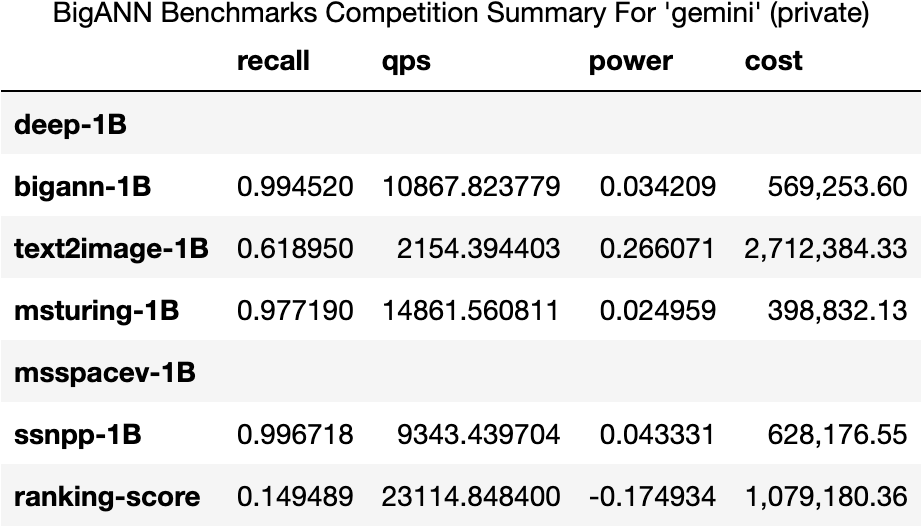
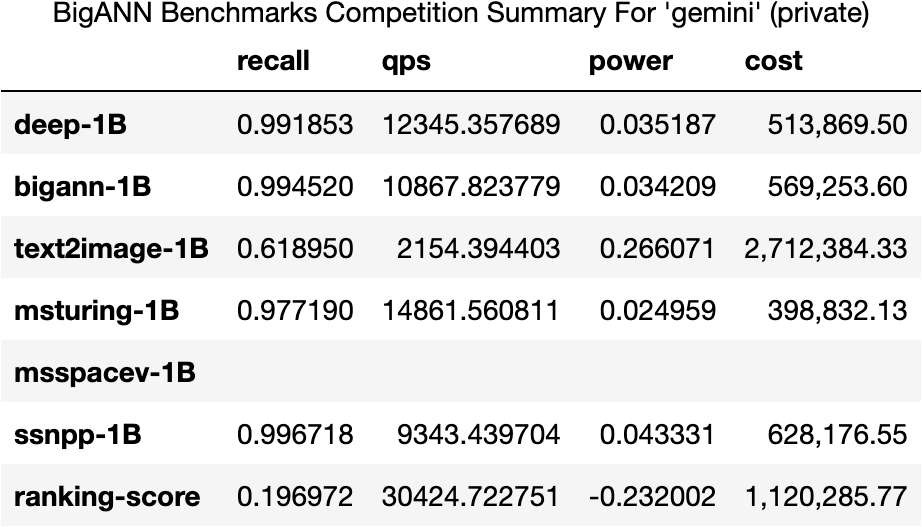
last gemini all runs

diff --git a/t3/run_eval.py b/t3/run_eval.py
@@ -82,8 +82,10 @@ SUBM_MAPPING            = \
         # last "export_fname": "public_gsl_release_merged_latest_ssnpp_text2image.csv",
         #"results_dir":  ( "%s/gsi/results_final_run" % CACHE_RESULTS_TOPLEVEL ) if PUBLIC else \
         #    ( "%s/gsi/results_gsi_priv_4_dsets" % CACHE_RESULTS_TOPLEVEL ),
+        # "results_dir":  ( "%s/gsi/results_final_run" % CACHE_RESULTS_TOPLEVEL ) if PUBLIC else \
+        #    ( "%s/gsi/results_gem_priv_4_dsets_w_power/" % CACHE_RESULTS_TOPLEVEL ),
         "results_dir":  ( "%s/gsi/results_final_run" % CACHE_RESULTS_TOPLEVEL ) if PUBLIC else \
-            ( "%s/gsi/results_gem_priv_4_dsets_w_power/" % CACHE_RESULTS_TOPLEVEL ),
+            ( "%s/gsi/results_gem_priv_merge__gem_priv_4_dsets_w_power__results_gem_priv_last_2_dsets/" % CACHE_RESULTS_TOPLEVEL ),
         "export_fname": "public_w_cache_detect.csv" if PUBLIC else "private_w_cache_detect.csv",
         "cache_detect": True,
         "anomaly_explain": False,
@@ -666,7 +668,7 @@ if __name__ == "__main__":
     else: #PRIVATE
         subms = [  "faiss_t3", "optanne_graphann", "gemini", "diskann", "cuanns_multigpu", "cuanns_ivfpq" ]
         #subms = [ "gemini", "faiss_t3", "cuanns_ivfpq", "optanne_graphann" ]
-        #subms = [ "gemini" ]
+        # subms = [ "gemini" ]
         #subms = [ "cuanns_multigpu" ]
 
     # export and/or produce summary and evals json  

diff --git a/t3/LEADERBOARDS_PRIVATE.md b/t3/LEADERBOARDS_PRIVATE.md
@@ -10,9 +10,9 @@ Please note that all rankings and winners are unofficial until all [open tasks a
 |--------------------|-----------|----------|---------|---------|---------|--------|---------|---------|---------|---------|--------|
 |[diskann](https://github.com/harsha-simhadri/big-ann-benchmarks/blob/gw/T3/t3/diskann-bare-metal/README.md)  |Microsoft Research India(*org*)    |Dell PowerEdge   |*NQ*  |*NQ*  |*NQ*  |*NQ* |eval   |*NA*  |[Harsha Simhadri](https://github.com/harsha-simhadri)  |[src](https://github.com/harsha-simhadri/big-ann-benchmarks/blob/gw/T3/benchmark/algorithms/diskann-t2.py)  |NA |
 |[faiss_t3](https://github.com/harsha-simhadri/big-ann-benchmarks/blob/gw/T3/t3/faiss_t3/README.md)    |Facebook Research(*org*)     |NVidia GPU    |[5](#recall-or-ap-rankings)   |[5](#throughput-rankings)   |[5](#power-rankings)   |[4](#cost-rankings)  |eval    |0/49   |[George Williams](https://github.com/sourcesync)   |[src](https://github.com/harsha-simhadri/big-ann-benchmarks/blob/gw/T3/benchmark/algorithms/faiss_t3.py)   |[nb](https://github.com/harsha-simhadri/big-ann-benchmarks/blob/gw/T3/t3/eval_2021/faiss_t3/EvalPrivate.ipynb)  |
-|[gemini](https://github.com/harsha-simhadri/big-ann-benchmarks/blob/gw/T3/t3/gemini/README.md)  |GSI Technology(*org*)    |LedaE APU   |[3](#recall-or-ap-rankings)  |[4](#throughput-rankings)  |[3](#power-rankings)  |[5](#cost-rankings) |eval   |0/40  |[George Williams](https://github.com/sourcesync)  |[src](https://github.com/harsha-simhadri/big-ann-benchmarks/blob/gw/T3/benchmark/algorithms/gemini.py)  |[nb](https://github.com/harsha-simhadri/big-ann-benchmarks/blob/gw/T3/t3/eval_2021/gemini/EvalPrivate.ipynb) |
+|[gemini](https://github.com/harsha-simhadri/big-ann-benchmarks/blob/gw/T3/t3/gemini/README.md)  |GSI Technology(*org*)    |LedaE APU   |[2](#recall-or-ap-rankings)  |[4](#throughput-rankings)  |[3](#power-rankings)  |[5](#cost-rankings) |eval   |0/50  |[George Williams](https://github.com/sourcesync)  |[src](https://github.com/harsha-simhadri/big-ann-benchmarks/blob/gw/T3/benchmark/algorithms/gemini.py)  |[nb](https://github.com/harsha-simhadri/big-ann-benchmarks/blob/gw/T3/t3/eval_2021/gemini/EvalPrivate.ipynb) |
 |[cuanns_ivfpq](https://github.com/harsha-simhadri/big-ann-benchmarks/blob/gw/T3/t3/cuanns_ivfpq/README.md)  |NVidia    |NVidia GPU   |[1](#recall-or-ap-rankings)  |[3](#throughput-rankings)  |[1](#power-rankings)  |[2](#cost-rankings)\*\* |eval   |[5/40](https://github.com/harsha-simhadri/big-ann-benchmarks/blob/gw/T3/t3/cuanns_ivfpq/ANOMALIES.md)  |[George Williams](https://github.com/sourcesync)  |[src](https://github.com/harsha-simhadri/big-ann-benchmarks/blob/gw/T3/benchmark/algorithms/cuanns_ivfpq.py)  |[nb](https://github.com/harsha-simhadri/big-ann-benchmarks/blob/gw/T3/t3/eval_2021/cuanns_ivfpq/EvalPrivate.ipynb) |
-|[cuanns_multigpu](https://github.com/harsha-simhadri/big-ann-benchmarks/blob/gw/T3/t3/cuanns_multigpu/README.md)    |NVidia     |NVidia GPU    |[2](#recall-or-ap-rankings)   |[1](#throughput-rankings)   |[2](#power-rankings)   |[3](#cost-rankings)\*\*  |eval    |[3/30](https://github.com/harsha-simhadri/big-ann-benchmarks/blob/gw/T3/t3/cuanns_multigpu/ANOMALIES.md)   |[George Williams](https://github.com/sourcesync)   |[src](https://github.com/harsha-simhadri/big-ann-benchmarks/blob/gw/T3/benchmark/algorithms/cuanns_multigpu.py)   |NA  |
+|[cuanns_multigpu](https://github.com/harsha-simhadri/big-ann-benchmarks/blob/gw/T3/t3/cuanns_multigpu/README.md)    |NVidia     |NVidia GPU    |[3](#recall-or-ap-rankings)   |[1](#throughput-rankings)   |[2](#power-rankings)   |[3](#cost-rankings)\*\*  |eval    |[3/30](https://github.com/harsha-simhadri/big-ann-benchmarks/blob/gw/T3/t3/cuanns_multigpu/ANOMALIES.md)   |[George Williams](https://github.com/sourcesync)   |[src](https://github.com/harsha-simhadri/big-ann-benchmarks/blob/gw/T3/benchmark/algorithms/cuanns_multigpu.py)   |NA  |
 |[optanne_graphann](https://github.com/harsha-simhadri/big-ann-benchmarks/blob/gw/T3/t3/optanne_graphann/README.md)|Intel   |Intel Optane  |[4](#recall-or-ap-rankings) |[2](#throughput-rankings) |[4](#power-rankings) |[1](#cost-rankings)|eval  |[4/40](https://github.com/harsha-simhadri/big-ann-benchmarks/blob/gw/T3/t3/optanne_graphann/ANOMALIES.md) |[George Williams](https://github.com/sourcesync) |[src](https://github.com/harsha-simhadri/big-ann-benchmarks/blob/gw/T3/benchmark/algorithms/graphann.py) |[nb](https://github.com/harsha-simhadri/big-ann-benchmarks/blob/gw/T3/t3/eval_2021/optanne_graphann/EvalPrivate.ipynb)|
 
 * Abbreviations used in chart:
@@ -33,8 +33,8 @@ Please note that all rankings and winners are unofficial until all [open tasks a
 |Rank|Submission        |Team   |Hardware|Status |Score      |[Deep1B](#deep1B-recall-rankings)|[BigANN](#bigann-recall-rankings)|[MSTuring](#msturing-recall-rankings)|[MSSpace](#msspace-recall-rankings)|[Text2Image](#text2image-recall-rankings)|[FBSSNet](#fbsimsearchnet-ap-rankings)|
 |----|------------------|-------|--------|-------|-----------|------|------|--------|-------|----------|-------|
 |   1|[cuanns_ivfpq](https://github.com/harsha-simhadri/big-ann-benchmarks/blob/gw/T3/t3/cuanns_ivfpq/README.md)|NVidia|NVidia GPU |eval|**0.226**|[0.99544](https://github.com/harsha-simhadri/big-ann-benchmarks/blob/gw/T3/t3/eval_2021/cuanns_ivfpq/private_deep-1B_recall.png) |[0.99882](https://github.com/harsha-simhadri/big-ann-benchmarks/blob/gw/T3/t3/eval_2021/cuanns_ivfpq/private_bigann-1B_recall.png) |[0.99054](https://github.com/harsha-simhadri/big-ann-benchmarks/blob/gw/T3/t3/eval_2021/cuanns_ivfpq/private_msturing-1B_recall.png)   |-  |[0.63732](https://github.com/harsha-simhadri/big-ann-benchmarks/blob/gw/T3/t3/eval_2021/cuanns_ivfpq/private_text2image-1B_recall.png)     |-  |
-|   2|[cuanns_multigpu](https://github.com/harsha-simhadri/big-ann-benchmarks/blob/gw/T3/t3/cuanns_multigpu/README.md)|NVidia|NVidia GPU |eval|**0.182**|[0.99551](https://github.com/harsha-simhadri/big-ann-benchmarks/blob/gw/T3/t3/eval_2021/cuanns_multigpu/private_deep-1B_recall.png) |[0.99872](https://github.com/harsha-simhadri/big-ann-benchmarks/blob/gw/T3/t3/eval_2021/cuanns_multigpu/private_bigann-1B_recall.png) |[0.98330](https://github.com/harsha-simhadri/big-ann-benchmarks/blob/gw/T3/t3/eval_2021/cuanns_multigpu/private_msturing-1B_recall.png)   |-  |-     |-  |
-|   3|[gemini](https://github.com/harsha-simhadri/big-ann-benchmarks/blob/gw/T3/t3/gemini/README.md)|GSI Technology(*org*)|LedaE APU |eval|**0.149**|- |[0.99452](https://github.com/harsha-simhadri/big-ann-benchmarks/blob/gw/T3/t3/eval_2021/gemini/private_bigann-1B_recall.png) |[0.97719](https://github.com/harsha-simhadri/big-ann-benchmarks/blob/gw/T3/t3/eval_2021/gemini/private_msturing-1B_recall.png)   |-  |[0.61895](https://github.com/harsha-simhadri/big-ann-benchmarks/blob/gw/T3/t3/eval_2021/gemini/private_text2image-1B_recall.png)     |[0.99672](https://github.com/harsha-simhadri/big-ann-benchmarks/blob/gw/T3/t3/eval_2021/gemini/private_ssnpp-1B_recall.png)  |
+|   2|[gemini](https://github.com/harsha-simhadri/big-ann-benchmarks/blob/gw/T3/t3/gemini/README.md)|GSI Technology(*org*)|LedaE APU |eval|**0.197**|[0.99185](https://github.com/harsha-simhadri/big-ann-benchmarks/blob/gw/T3/t3/eval_2021/gemini/private_deep-1B_recall.png) |[0.99452](https://github.com/harsha-simhadri/big-ann-benchmarks/blob/gw/T3/t3/eval_2021/gemini/private_bigann-1B_recall.png) |[0.97719](https://github.com/harsha-simhadri/big-ann-benchmarks/blob/gw/T3/t3/eval_2021/gemini/private_msturing-1B_recall.png)   |-  |[0.61895](https://github.com/harsha-simhadri/big-ann-benchmarks/blob/gw/T3/t3/eval_2021/gemini/private_text2image-1B_recall.png)     |[0.99672](https://github.com/harsha-simhadri/big-ann-benchmarks/blob/gw/T3/t3/eval_2021/gemini/private_ssnpp-1B_recall.png)  |
+|   3|[cuanns_multigpu](https://github.com/harsha-simhadri/big-ann-benchmarks/blob/gw/T3/t3/cuanns_multigpu/README.md)|NVidia|NVidia GPU |eval|**0.182**|[0.99551](https://github.com/harsha-simhadri/big-ann-benchmarks/blob/gw/T3/t3/eval_2021/cuanns_multigpu/private_deep-1B_recall.png) |[0.99872](https://github.com/harsha-simhadri/big-ann-benchmarks/blob/gw/T3/t3/eval_2021/cuanns_multigpu/private_bigann-1B_recall.png) |[0.98330](https://github.com/harsha-simhadri/big-ann-benchmarks/blob/gw/T3/t3/eval_2021/cuanns_multigpu/private_msturing-1B_recall.png)   |-  |-     |-  |
 |   4|[optanne_graphann](https://github.com/harsha-simhadri/big-ann-benchmarks/blob/gw/T3/t3/optanne_graphann/README.md)|Intel|Intel Optane |eval|**0.089**|[0.99872](https://github.com/harsha-simhadri/big-ann-benchmarks/blob/gw/T3/t3/eval_2021/optanne_graphann/private_deep-1B_recall.png) |[0.99977](https://github.com/harsha-simhadri/big-ann-benchmarks/blob/gw/T3/t3/eval_2021/optanne_graphann/private_bigann-1B_recall.png) |[0.90255](https://github.com/harsha-simhadri/big-ann-benchmarks/blob/gw/T3/t3/eval_2021/optanne_graphann/private_msturing-1B_recall.png)   |-  |[0.58449](https://github.com/harsha-simhadri/big-ann-benchmarks/blob/gw/T3/t3/eval_2021/optanne_graphann/private_text2image-1B_recall.png)     |-  |
 |   5|[faiss_t3](https://github.com/harsha-simhadri/big-ann-benchmarks/blob/gw/T3/t3/faiss_t3/README.md)|Facebook Research(*org*)|NVidia GPU |eval|**baseline**|[0.94437](https://github.com/harsha-simhadri/big-ann-benchmarks/blob/gw/T3/t3/eval_2021/faiss_t3/private_deep-1B_recall.png) |[0.93604](https://github.com/harsha-simhadri/big-ann-benchmarks/blob/gw/T3/t3/eval_2021/faiss_t3/private_bigann-1B_recall.png) |[0.91513](https://github.com/harsha-simhadri/big-ann-benchmarks/blob/gw/T3/t3/eval_2021/faiss_t3/private_msturing-1B_recall.png)   |-  |[0.60105](https://github.com/harsha-simhadri/big-ann-benchmarks/blob/gw/T3/t3/eval_2021/faiss_t3/private_text2image-1B_recall.png)     |[0.98567](https://github.com/harsha-simhadri/big-ann-benchmarks/blob/gw/T3/t3/eval_2021/faiss_t3/private_ssnpp-1B_recall.png)  |
 |   6|[-](-)|-|- |-|**-**|- |- |-   |-  |-     |-  |
@@ -53,7 +53,7 @@ Please note that all rankings and winners are unofficial until all [open tasks a
 |   1|[cuanns_multigpu](https://github.com/harsha-simhadri/big-ann-benchmarks/blob/gw/T3/t3/cuanns_multigpu/README.md)|NVidia|NVidia GPU |eval|**2093459**|[934,837](https://github.com/harsha-simhadri/big-ann-benchmarks/blob/gw/T3/t3/eval_2021/cuanns_multigpu/private_deep-1B_throughput.png) |[776,723](https://github.com/harsha-simhadri/big-ann-benchmarks/blob/gw/T3/t3/eval_2021/cuanns_multigpu/private_bigann-1B_throughput.png) |[392,843](https://github.com/harsha-simhadri/big-ann-benchmarks/blob/gw/T3/t3/eval_2021/cuanns_multigpu/private_msturing-1B_throughput.png)   |-  |-     |-         |
 |   2|[optanne_graphann](https://github.com/harsha-simhadri/big-ann-benchmarks/blob/gw/T3/t3/optanne_graphann/README.md)|Intel|Intel Optane |eval|**669936**|[210,326](https://github.com/harsha-simhadri/big-ann-benchmarks/blob/gw/T3/t3/eval_2021/optanne_graphann/private_deep-1B_throughput.png) |[346,886](https://github.com/harsha-simhadri/big-ann-benchmarks/blob/gw/T3/t3/eval_2021/optanne_graphann/private_bigann-1B_throughput.png) |[123,695](https://github.com/harsha-simhadri/big-ann-benchmarks/blob/gw/T3/t3/eval_2021/optanne_graphann/private_msturing-1B_throughput.png)   |-  |[1,921](https://github.com/harsha-simhadri/big-ann-benchmarks/blob/gw/T3/t3/eval_2021/optanne_graphann/private_text2image-1B_throughput.png)     |-         | 
 |   3|[cuanns_ivfpq](https://github.com/harsha-simhadri/big-ann-benchmarks/blob/gw/T3/t3/cuanns_ivfpq/README.md)|NVidia|NVidia GPU |eval|**292753**|[95,386](https://github.com/harsha-simhadri/big-ann-benchmarks/blob/gw/T3/t3/eval_2021/cuanns_ivfpq/private_deep-1B_throughput.png) |[86,004](https://github.com/harsha-simhadri/big-ann-benchmarks/blob/gw/T3/t3/eval_2021/cuanns_ivfpq/private_bigann-1B_throughput.png) |[103,361](https://github.com/harsha-simhadri/big-ann-benchmarks/blob/gw/T3/t3/eval_2021/cuanns_ivfpq/private_msturing-1B_throughput.png)   |-  |[20,894](https://github.com/harsha-simhadri/big-ann-benchmarks/blob/gw/T3/t3/eval_2021/cuanns_ivfpq/private_text2image-1B_throughput.png)     |-         | 
-|   4|[gemini](https://github.com/harsha-simhadri/big-ann-benchmarks/blob/gw/T3/t3/gemini/README.md)|GSI Technology(*org*)|LedaE APU |eval|**23115**|- |[10,868](https://github.com/harsha-simhadri/big-ann-benchmarks/blob/gw/T3/t3/eval_2021/gemini/private_bigann-1B_throughput.png) |[14,862](https://github.com/harsha-simhadri/big-ann-benchmarks/blob/gw/T3/t3/eval_2021/gemini/private_msturing-1B_throughput.png)   |-  |[2,154](https://github.com/harsha-simhadri/big-ann-benchmarks/blob/gw/T3/t3/eval_2021/gemini/private_text2image-1B_throughput.png)     |[9,343](https://github.com/harsha-simhadri/big-ann-benchmarks/blob/gw/T3/t3/eval_2021/gemini/private_ssnpp-1B_throughput.png)         | 
+|   4|[gemini](https://github.com/harsha-simhadri/big-ann-benchmarks/blob/gw/T3/t3/gemini/README.md)|GSI Technology(*org*)|LedaE APU |eval|**30425**|[12,345](https://github.com/harsha-simhadri/big-ann-benchmarks/blob/gw/T3/t3/eval_2021/gemini/private_deep-1B_throughput.png) |[10,868](https://github.com/harsha-simhadri/big-ann-benchmarks/blob/gw/T3/t3/eval_2021/gemini/private_bigann-1B_throughput.png) |[14,862](https://github.com/harsha-simhadri/big-ann-benchmarks/blob/gw/T3/t3/eval_2021/gemini/private_msturing-1B_throughput.png)   |-  |[2,154](https://github.com/harsha-simhadri/big-ann-benchmarks/blob/gw/T3/t3/eval_2021/gemini/private_text2image-1B_throughput.png)     |[9,343](https://github.com/harsha-simhadri/big-ann-benchmarks/blob/gw/T3/t3/eval_2021/gemini/private_ssnpp-1B_throughput.png)         | 
 |   5|[faiss_t3](https://github.com/harsha-simhadri/big-ann-benchmarks/blob/gw/T3/t3/faiss_t3/README.md)|Facebook Research(*org*)|NVidia GPU |eval|**baseline**|[5,035](https://github.com/harsha-simhadri/big-ann-benchmarks/blob/gw/T3/t3/eval_2021/faiss_t3/private_deep-1B_throughput.png) |[3,279](https://github.com/harsha-simhadri/big-ann-benchmarks/blob/gw/T3/t3/eval_2021/faiss_t3/private_bigann-1B_throughput.png) |[2,630](https://github.com/harsha-simhadri/big-ann-benchmarks/blob/gw/T3/t3/eval_2021/faiss_t3/private_msturing-1B_throughput.png)   |-  |[1,948](https://github.com/harsha-simhadri/big-ann-benchmarks/blob/gw/T3/t3/eval_2021/faiss_t3/private_text2image-1B_throughput.png)     |[6,256](https://github.com/harsha-simhadri/big-ann-benchmarks/blob/gw/T3/t3/eval_2021/faiss_t3/private_ssnpp-1B_throughput.png)         | 
 |   6|[-](-)|-|- |-|**-**|- |- |-   |-  |-     |-         | 
 
@@ -70,7 +70,7 @@ Please note that all rankings and winners are unofficial until all [open tasks a
 |----|------------------|-------|--------|-------|-----------|------|------|--------|-------|-----|-----|
 |   1|[cuanns_ivfpq](https://github.com/harsha-simhadri/big-ann-benchmarks/blob/gw/T3/t3/cuanns_multigpu/README.md)|NVidia|NVidia GPU |eval|**-0.536**|[0.0021](https://github.com/harsha-simhadri/big-ann-benchmarks/blob/gw/T3/t3/eval_2021/cuanns_ivfpq/private_deep-1B_power.png) |[0.0023](https://github.com/harsha-simhadri/big-ann-benchmarks/blob/gw/T3/t3/eval_2021/cuanns_ivfpq/private_bigann-1B_power.png) |[0.0020](https://github.com/harsha-simhadri/big-ann-benchmarks/blob/gw/T3/t3/eval_2021/cuanns_ivfpq/private_msturing-1B_power.png)   |-  |[0.0083](https://github.com/harsha-simhadri/big-ann-benchmarks/blob/gw/T3/t3/eval_2021/cuanns_ivfpq/private_text2image-1B_power.png)|-|
 |   2|[cuanns_multigpu](https://github.com/harsha-simhadri/big-ann-benchmarks/blob/gw/T3/t3/optanne_graphann/README.md)|NVidia|NVidia GPU |eval|**-0.441**|[0.0002](https://github.com/harsha-simhadri/big-ann-benchmarks/blob/gw/T3/t3/eval_2021/cuanns_multigpu/private_deep-1B_power.png) |[0.0002](https://github.com/harsha-simhadri/big-ann-benchmarks/blob/gw/T3/t3/eval_2021/cuanns_multigpu/private_bigann-1B_power.png) |[0.0005](https://github.com/harsha-simhadri/big-ann-benchmarks/blob/gw/T3/t3/eval_2021/cuanns_multigpu/private_msturing-1B_power.png)   |-  |-|-| 
-|   3|[gemini](https://github.com/harsha-simhadri/big-ann-benchmarks/blob/gw/T3/t3/cuanns_ivfpq/README.md)|GSI Technology(*org*)|LedaE APU |eval|**-0.175**|- |[0.0342](https://github.com/harsha-simhadri/big-ann-benchmarks/blob/gw/T3/t3/eval_2021/gemini/private_bigann-1B_power.png) |[0.0250](https://github.com/harsha-simhadri/big-ann-benchmarks/blob/gw/T3/t3/eval_2021/gemini/private_msturing-1B_power.png)   |-  |[0.2661](https://github.com/harsha-simhadri/big-ann-benchmarks/blob/gw/T3/t3/eval_2021/gemini/private_text2image-1B_power.png)|[0.0433](https://github.com/harsha-simhadri/big-ann-benchmarks/blob/gw/T3/t3/eval_2021/gemini/private_ssnpp-1B_power.png)| 
+|   3|[gemini](https://github.com/harsha-simhadri/big-ann-benchmarks/blob/gw/T3/t3/cuanns_ivfpq/README.md)|GSI Technology(*org*)|LedaE APU |eval|**-0.232**|[0.0352](https://github.com/harsha-simhadri/big-ann-benchmarks/blob/gw/T3/t3/eval_2021/gemini/private_deep-1B_power.png) |[0.0342](https://github.com/harsha-simhadri/big-ann-benchmarks/blob/gw/T3/t3/eval_2021/gemini/private_bigann-1B_power.png) |[0.0250](https://github.com/harsha-simhadri/big-ann-benchmarks/blob/gw/T3/t3/eval_2021/gemini/private_msturing-1B_power.png)   |-  |[0.2661](https://github.com/harsha-simhadri/big-ann-benchmarks/blob/gw/T3/t3/eval_2021/gemini/private_text2image-1B_power.png)|[0.0433](https://github.com/harsha-simhadri/big-ann-benchmarks/blob/gw/T3/t3/eval_2021/gemini/private_ssnpp-1B_power.png)| 
 |   4|[optanne_graphann](https://github.com/harsha-simhadri/big-ann-benchmarks/blob/gw/T3/t3/gemini/README.md)|Intel|Intel Optane |eval|**-0.148**|[0.0036](https://github.com/harsha-simhadri/big-ann-benchmarks/blob/gw/T3/t3/eval_2021/optanne_graphann/private_deep-1B_power.png) |[0.0021](https://github.com/harsha-simhadri/big-ann-benchmarks/blob/gw/T3/t3/eval_2021/optanne_graphann/private_bigann-1B_power.png) |[0.0060](https://github.com/harsha-simhadri/big-ann-benchmarks/blob/gw/T3/t3/eval_2021/optanne_graphann/private_msturing-1B_power.png)   |-  |[0.3910](https://github.com/harsha-simhadri/big-ann-benchmarks/blob/gw/T3/t3/eval_2021/optanne_graphann/private_text2image-1B_power.png)|-| 
 |   5|[faiss_t3](https://github.com/harsha-simhadri/big-ann-benchmarks/blob/gw/T3/t3/faiss_t3/README.md)|Facebook Research(*org*)|NVidia GPU |eval|**baseline**|[0.0923](https://github.com/harsha-simhadri/big-ann-benchmarks/blob/gw/T3/t3/eval_2021/faiss_t3/private_deep-1B_power.png) |[0.1623](https://github.com/harsha-simhadri/big-ann-benchmarks/blob/gw/T3/t3/eval_2021/faiss_t3/private_bigann-1B_power.png) |[0.1874](https://github.com/harsha-simhadri/big-ann-benchmarks/blob/gw/T3/t3/eval_2021/faiss_t3/private_msturing-1B_power.png)   |-  |[0.1091](https://github.com/harsha-simhadri/big-ann-benchmarks/blob/gw/T3/t3/eval_2021/faiss_t3/private_text2image-1B_power.png)|[0.0847](https://github.com/harsha-simhadri/big-ann-benchmarks/blob/gw/T3/t3/eval_2021/faiss_t3/private_ssnpp-1B_power.png)| 
 |   6|[-](-)|-|- |-|**-**|- |- |-   |-  |-|-| 
@@ -90,7 +90,7 @@ Please note that all rankings and winners are unofficial until all [open tasks a
 |   2|[cuanns_ivfpq](https://github.com/harsha-simhadri/big-ann-benchmarks/blob/gw/T3/t3/cuanns_ivfpq/README.md)|NVidia|NVidia GPU |eval|**$-1,815,084.29\*\***|$300,721.93 |$300,793.63 |$150,691.36   |-  |$752,925.15     |-         |
 |   3|[cuanns_multigpu](https://github.com/harsha-simhadri/big-ann-benchmarks/blob/gw/T3/t3/cuanns_multigpu/README.md)|NVidia|NVidia GPU |eval|**$-1,686,518.57\*\***|$150,069.78 |$150,087.13 |$150,173.05   |-  |-     |-         |
 |   4|[faiss_t3](https://github.com/harsha-simhadri/big-ann-benchmarks/blob/gw/T3/t3/faiss_t3/README.md)|Facebook Research(*org*)|NVidia GPU |eval|**baseline**|$472,764.09 |$739,552.84 |$924,531.60   |-  |$1,183,367.83     |$382,013.99         |
-|   5|[gemini](https://github.com/harsha-simhadri/big-ann-benchmarks/blob/gw/T3/t3/gemini/README.md)|GSI Technology(*org*)|LedaE APU |eval|**$1,079,180.36**|- |$569,253.60 |$398,832.13   |-  |$2,712,384.33     |$628,176.55         |
+|   5|[gemini](https://github.com/harsha-simhadri/big-ann-benchmarks/blob/gw/T3/t3/gemini/README.md)|GSI Technology(*org*)|LedaE APU |eval|**$1,120,285.77**|$513,869.50 |$569,253.60 |$398,832.13   |-  |$2,712,384.33     |$628,176.55         |
 |   6|[-](-)|-|- |-|**-**|- |- |-   |-  |-     |-         |
 
 * A submission must support at least 3 databases to qualify for this ranking.
@@ -113,8 +113,8 @@ Please note that all rankings and winners are unofficial until all [open tasks a
 |   1|[optanne_graphann](https://github.com/harsha-simhadri/big-ann-benchmarks/blob/gw/T3/t3/optanne_graphann/README.md)                                   |Intel                      |Intel Optane               |eval|**[0.99872](https://github.com/harsha-simhadri/big-ann-benchmarks/blob/gw/T3/t3/eval_2021/optanne_graphann/private_deep-1B_recall.png)**|       
 |   2|[cuanns_multigpu](https://github.com/harsha-simhadri/big-ann-benchmarks/blob/gw/T3/t3/cuanns_multigpu/README.md)                                   |NVidia                      |NVidia GPU               |eval|**[0.99551](https://github.com/harsha-simhadri/big-ann-benchmarks/blob/gw/T3/t3/eval_2021/cuanns_multigpu/private_deep-1B_recall.png)**|       
 |   3|[cuanns_ivfpq](https://github.com/harsha-simhadri/big-ann-benchmarks/blob/gw/T3/t3/cuanns_ivfpq/README.md)                                   |NVidia                      |NVidia GPU               |eval|**[0.99544](https://github.com/harsha-simhadri/big-ann-benchmarks/blob/gw/T3/t3/eval_2021/cuanns_ivfpq/private_deep-1B_recall.png)**|       
-|   4|[faiss_t3](https://github.com/harsha-simhadri/big-ann-benchmarks/blob/gw/T3/t3/faiss_t3/README.md)                                   |Facebook Research(*org*)                      |NVidia GPU               |eval|**[0.94437](https://github.com/harsha-simhadri/big-ann-benchmarks/blob/gw/T3/t3/eval_2021/faiss_t3/private_deep-1B_recall.png)**|       
-|   5|[-](-)                                   |-                      |-               |-|**-**|       
+|   4|[gemini](https://github.com/harsha-simhadri/big-ann-benchmarks/blob/gw/T3/t3/gemini/README.md)                                   |GSI Technology(*org*)                      |LedaE APU               |eval|**[0.99185](https://github.com/harsha-simhadri/big-ann-benchmarks/blob/gw/T3/t3/eval_2021/gemini/private_deep-1B_recall.png)**|       
+|   5|[faiss_t3](https://github.com/harsha-simhadri/big-ann-benchmarks/blob/gw/T3/t3/faiss_t3/README.md)                                   |Facebook Research(*org*)                      |NVidia GPU               |eval|**[0.94437](https://github.com/harsha-simhadri/big-ann-benchmarks/blob/gw/T3/t3/eval_2021/faiss_t3/private_deep-1B_recall.png)**|       
 |   6|[-](-)                                   |-                      |-               |-|**-**|       
 
 * The operational point for ranking is 2000 QPS. We will use the highest recall for the search parameters that meet or exceed 2000 QPS.
@@ -130,8 +130,8 @@ Please note that all rankings and winners are unofficial until all [open tasks a
 |   1|[cuanns_multigpu](https://github.com/harsha-simhadri/big-ann-benchmarks/blob/gw/T3/t3/cuanns_multigpu/README.md)                                   |NVidia                      |NVidia GPU               |eval|**[934,837](https://github.com/harsha-simhadri/big-ann-benchmarks/blob/gw/T3/t3/eval_2021/cuanns_multigpu/private_deep-1B_throughput.png)**|
 |   2|[optanne_graphann](https://github.com/harsha-simhadri/big-ann-benchmarks/blob/gw/T3/t3/optanne_graphann/README.md)                                   |Intel                      |Intel Optane               |eval|**[210,326](https://github.com/harsha-simhadri/big-ann-benchmarks/blob/gw/T3/t3/eval_2021/optanne_graphann/private_deep-1B_throughput.png)**|
 |   3|[cuanns_ivfpq](https://github.com/harsha-simhadri/big-ann-benchmarks/blob/gw/T3/t3/cuanns_ivfpq/README.md)                                   |NVidia                      |NVidia GPU               |eval|**[95,386](https://github.com/harsha-simhadri/big-ann-benchmarks/blob/gw/T3/t3/eval_2021/cuanns_ivfpq/private_deep-1B_throughput.png)**|
-|   4|[faiss_t3](https://github.com/harsha-simhadri/big-ann-benchmarks/blob/gw/T3/t3/faiss_t3/README.md)                                   |Facebook Research(*org*)                      |NVidia GPU               |eval|**[5,035](https://github.com/harsha-simhadri/big-ann-benchmarks/blob/gw/T3/t3/eval_2021/faiss_t3/private_deep-1B_throughput.png)**|
-|   5|[-](-)                                   |-                      |-               |-|**-**|
+|   4|[gemini](https://github.com/harsha-simhadri/big-ann-benchmarks/blob/gw/T3/t3/gemini/README.md)                                   |GSI Technology(*org*)                      |LedaE APU               |eval|**[12,345](https://github.com/harsha-simhadri/big-ann-benchmarks/blob/gw/T3/t3/eval_2021/gemini/private_deep-1B_throughput.png)**|
+|   5|[faiss_t3](https://github.com/harsha-simhadri/big-ann-benchmarks/blob/gw/T3/t3/faiss_t3/README.md)                                   |Facebook Research(*org*)                      |NVidia GPU               |eval|**[5,035](https://github.com/harsha-simhadri/big-ann-benchmarks/blob/gw/T3/t3/eval_2021/faiss_t3/private_deep-1B_throughput.png)**|
 |   6|[-](-)                                   |-                      |-               |-|**-**|
 
 * The operational point for ranking is 0.90 recall@10. We will use the highest throughput for the search parameters that meet or exceed 0.90 recall@10.
@@ -147,8 +147,8 @@ Please note that all rankings and winners are unofficial until all [open tasks a
 |   1|[cuanns_multigpu](https://github.com/harsha-simhadri/big-ann-benchmarks/blob/gw/T3/t3/cuanns_multigpu/README.md)                                   |NVidia                      |NVidia GPU               |eval|**[0.0002](https://github.com/harsha-simhadri/big-ann-benchmarks/blob/gw/T3/t3/eval_2021/cuanns_multigpu/private_deep-1B_power.png)**|
 |   2|[cuanns_ivfpq](https://github.com/harsha-simhadri/big-ann-benchmarks/blob/gw/T3/t3/cuanns_ivfpq/README.md)                                   |NVidia                      |NVidia GPU               |eval|**[0.0021](https://github.com/harsha-simhadri/big-ann-benchmarks/blob/gw/T3/t3/eval_2021/cuanns_ivfpq/private_deep-1B_power.png)**|
 |   3|[optanne_graphann](https://github.com/harsha-simhadri/big-ann-benchmarks/blob/gw/T3/t3/optanne_graphann/README.md)                                   |Intel                      |Intel Optane               |eval|**[0.0036](https://github.com/harsha-simhadri/big-ann-benchmarks/blob/gw/T3/t3/eval_2021/optanne_graphann/private_deep-1B_power.png)**|
-|   4|[faiss_t3](https://github.com/harsha-simhadri/big-ann-benchmarks/blob/gw/T3/t3/faiss_t3/README.md)                                   |Facebook Research(*org*)                      |NVidia GPU               |eval|**[0.0923](https://github.com/harsha-simhadri/big-ann-benchmarks/blob/gw/T3/t3/eval_2021/faiss_t3/private_deep-1B_power.png)**|
-|   5|[-](-)                                   |-                      |-               |-|**-**|
+|   4|[gemini](https://github.com/harsha-simhadri/big-ann-benchmarks/blob/gw/T3/t3/gemini/README.md)                                   |GSI Technology(*org*)                      |LedaE APU               |eval|**[0.0352](https://github.com/harsha-simhadri/big-ann-benchmarks/blob/gw/T3/t3/eval_2021/gemini/private_deep-1B_power.png)**|
+|   5|[faiss_t3](https://github.com/harsha-simhadri/big-ann-benchmarks/blob/gw/T3/t3/faiss_t3/README.md)                                   |Facebook Research(*org*)                      |NVidia GPU               |eval|**[0.0923](https://github.com/harsha-simhadri/big-ann-benchmarks/blob/gw/T3/t3/eval_2021/faiss_t3/private_deep-1B_power.png)**|
 |   6|[-](-)                                   |-                      |-               |-|**-**|
 
 * The operational point for ranking is 0.90 recall@10. We will use the lowest power consumption for the search parameters that meet or exceed 0.90 recall@10.
@@ -165,7 +165,7 @@ Please note that all rankings and winners are unofficial until all [open tasks a
 |   2|[cuanns_multigpu](https://github.com/harsha-simhadri/big-ann-benchmarks/blob/gw/T3/t3/cuanns_multigpu/README.md)|NVidia |NVidia GPU               |eval|**$150,069.78\*\***  |$150,000.00|$69.78|$150,000.00 |1      |697.804|
 |   3|[cuanns_ivfpq](https://github.com/harsha-simhadri/big-ann-benchmarks/blob/gw/T3/t3/cuanns_ivfpq/README.md)|NVidia |NVidia GPU               |eval|**$300,721.93\*\***  |$300,000.00|$721.93|$150,000.00 |2      |7,219.311|
 |   4|[faiss_t3](https://github.com/harsha-simhadri/big-ann-benchmarks/blob/gw/T3/t3/faiss_t3/README.md)|Facebook Research(*org*) |NVidia GPU               |eval|**$472,764.09**  |$440,438.00|$32,326.09|$22,021.90 |20      |323,260.873|
-|   5|[-](-)|- |-               |-|**-**  |-|-|- |-      |-|
+|   5|[gemini](https://github.com/harsha-simhadri/big-ann-benchmarks/blob/gw/T3/t3/gemini/README.md)|GSI Technology(*org*) |LedaE APU               |eval|**$513,869.50**  |$501,539.94|$12,329.56|$55,726.66 |9      |123,295.635|
 |   6|[-](-)|- |-               |-|**-**  |-|-|- |-      |-|
 
 * The operational point for ranking is 0.90 recall@10. We will use the lowest power consumption/query for the search parameters that meet or exceed 0.90 recall@10.
